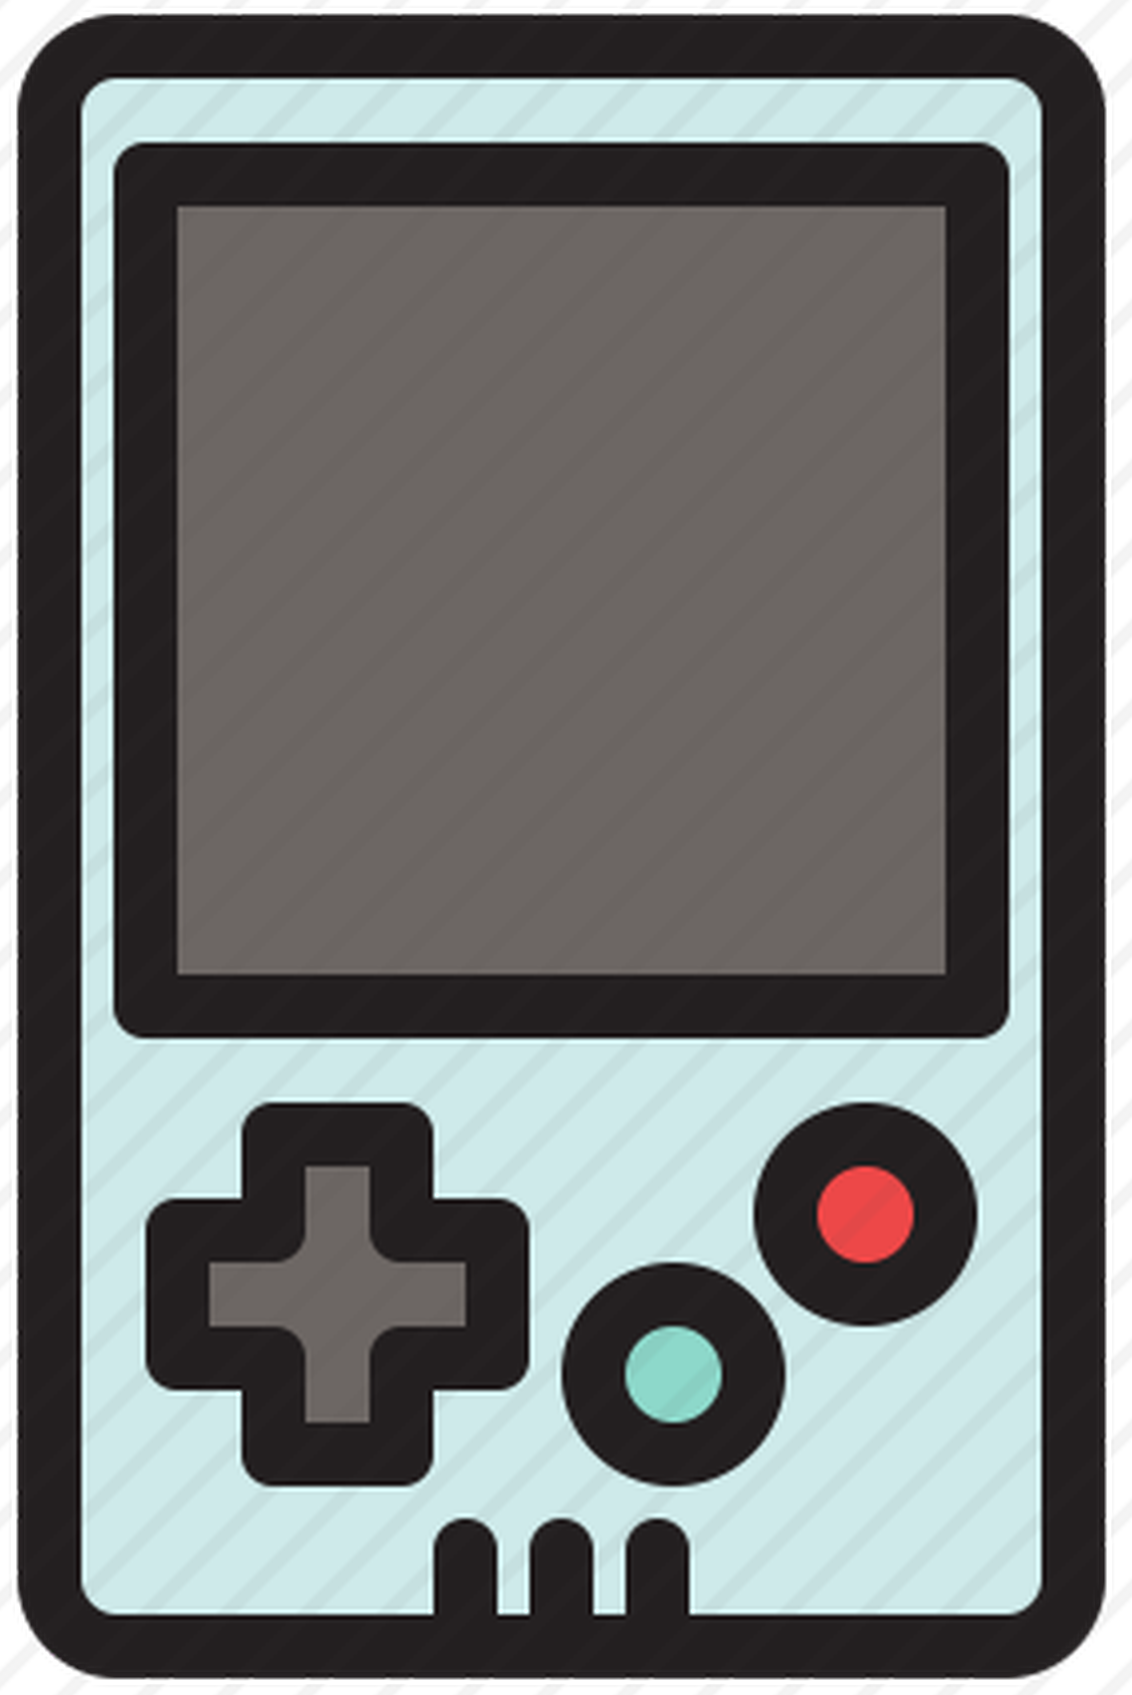
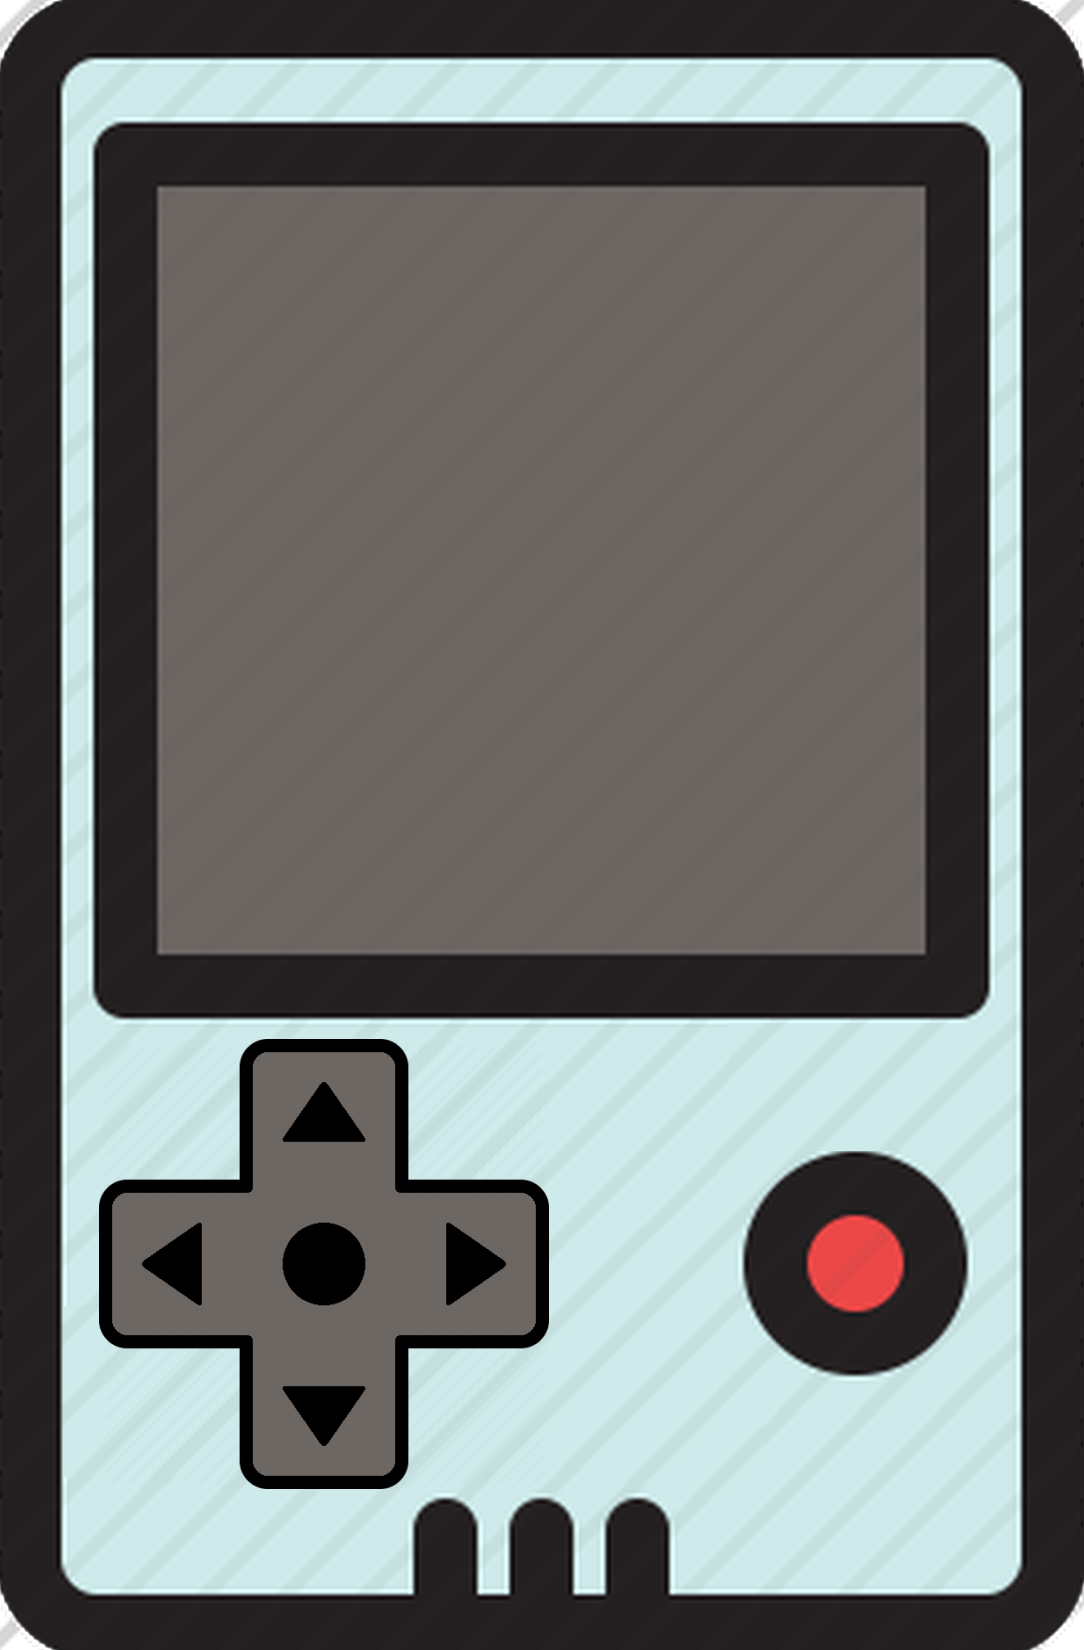
replace dpad

Changed region(s): [[0.0, 0.0, 1.0, 1.0]]

diff --git a/src/style/snake.css b/src/style/snake.css
@@ -54,52 +54,56 @@ body{
 }
 
 #mobile-screen {    
-  margin-left: -5px;
-  margin-top: 87px;
-  height: 340px;
-  width: 340px;
+  margin-left: -1px;
+  margin-top: 75px;
+  height: 360px;
+  width: 360px;
   border-radius: 3px;
 }
 
 #mobile-left {
-  /* background-color: red; */
-  left: 11px;
+  background-color: red;
+  left: 9px;
 }
 
 #mobile-right {
-  /* background-color: blue; */
+  background-color: blue;
   left: 194px;
 }
 
 .mobile-horizontal
 {
-  width: 95px;
-  height: 85px;
-  top: 89px;
+  width: 105px;
+  height: 78px;
+  top: 87px;
 }
 
 #mobile-up {
-  /* background-color: green; */
-  top: 15px;
+  background-color: green;
+  top: -5px;
 }
 
 #mobile-down {
-  /* background-color: orange; */
-  top: 145px;
+  background-color: orange;
+  top: 157px;
 }
 
 .mobile-vertical
 {
-  height: 105px;
-  width: 88px;
-  left: 106px;
+  height: 100px;
+  width: 80px;
+  left: 114px;
 }
 
 #mobile-space {
-  /* background-color: grey;
-  border: 2px solid black; */
+  background-color: grey;
+  border: 2px solid black;
   opacity: 0.8;
   border-radius: 50%;
+  left: 338px;
+  top: 73px;
+  width: 105px;
+  height: 105px;
 }
 
 @media only screen and (max-width: 425px) {
@@ -117,18 +121,18 @@ body{
 
   
   #mobile-left {
-    left: 7px;
+    left: 4px;
   }
 
   #mobile-right {
-    left: 123px;
+    left: 122px;
   }
 
   .mobile-horizontal
   {
-    width: 61px;
-    height: 55px;
-    top: 51px;
+    width: 68px;
+    height: 51px;
+    top: 54px;
   }
 
   #mobile-up {
@@ -136,19 +140,19 @@ body{
   }
 
   #mobile-down {
-    top: 82px;
+    top: 100px;
   }
 
   .mobile-vertical
   {
-    height: 79px;
-    width: 55px;
-    left: 68px;
+    height: 65px;
+    width: 50px;
+    left: 72px;
   }
 
   #mobile-space {
-    left: 212px;
-    top: 23px;
+    left: 219px;
+    top: 47px;
     width: 65px;
     height: 65px;
   }
@@ -161,45 +165,45 @@ body{
 }
 
   #mobile-screen {    
-    height: 200px;
-    width: 200px;
-    margin-left: -4px;
-    margin-top: 51px;
+    height: 210px;
+    width: 210px;
+    margin-left: -2px;
+    margin-top: 47px;
   }
 
   #mobile-left {
-    left: 12px;
+    left: 10px;
   }
 
   #mobile-right {
-    left: 115px;
+    left: 116px;
   }
 
   .mobile-horizontal
   {
-    width: 55px;
-    height: 49px;
-    top: 47px;
+    width: 61px;
+    height: 45px;
+    top: 44px;
   }
 
   #mobile-up {
-    top: -2px;
+    top: -12px;
   }
 
   #mobile-down {
-    top: 75px;
+    top: 85px;
   }
 
   .mobile-vertical
   {
-    height: 69px;
-    width: 49px;
-    left: 67px;
+    height: 60px;
+    width: 45px;
+    left: 71px;
   }
 
   #mobile-space {
-    left: 195px;
-    top: 22px;
+    left: 201px;
+    top: 36px;
     width: 60px;
     height: 60px;
   }
@@ -213,14 +217,14 @@ body{
   }
 
   #mobile-screen {   
-    height: 160px;
-    width: 160px;
-    margin-left: -5px;
-    margin-top: 42px;
+    height: 170px;
+    width: 170px;
+    margin-left: -1px;
+    margin-top: 35px;
   }
   
   #mobile-left {
-    left: 4px;
+    left: 1px;
   }
 
   #mobile-right {
@@ -229,9 +233,9 @@ body{
 
   .mobile-horizontal
   {
-    width: 45px;
-    height: 40px;
-    top: 38px;
+    width: 50px;
+    height: 37px;
+    top: 39px;
   }
 
   #mobile-up {
@@ -239,19 +243,19 @@ body{
   }
 
   #mobile-down {
-    top: 64px;
+    top: 72px;
   }
 
   .mobile-vertical
   {
-    height: 57px;
-    width: 39px;
-    left: 49px;
+    height: 48px;
+    width: 36px;
+    left: 51px;
   }
 
   #mobile-space {
-    left: 151px;
-    top: 16px;
+    left: 157px;
+    top: 33px;
     width: 50px;
     height: 50px;
   }

diff --git a/index.html b/index.html
@@ -9,7 +9,10 @@
 <script src="vendor/node_modules/jquery/dist/jquery.min.js"></script>
 <script src="vendor/node_modules/bootstrap/dist/js/bootstrap.min.js"></script>
 <script type="module" src="dist/app.min.js"></script>
-<link rel="stylesheet" href="dist/style.min.css"/>
+<!-- <link rel="stylesheet" href="dist/style.min.css"/> -->
+<link rel="stylesheet" href="src/style/basket.css"/>
+<link rel="stylesheet" href="src/style/competence.css"/>
+<link rel="stylesheet" href="src/style/snake.css"/>
 </head>
 <body>
   <div id="main" class="main-container invisible">
@@ -77,7 +80,7 @@
     <footer>
       <div class="box vertical-flex">
           <span class="vintage-span span-small">&copy; 2020</span>
-          <span class="vintage-span span-small">Made with html, css, javascript and ♥ </span> 
+          <span class="vintage-span span-small">Built with html, css, javascript and ♥ </span> 
           <span class="vintage-span span-small box">Source code available on 
               <a href="https://github.com/Asopus/Curriculum" target="_blank">
                 <div id="github"></div>
